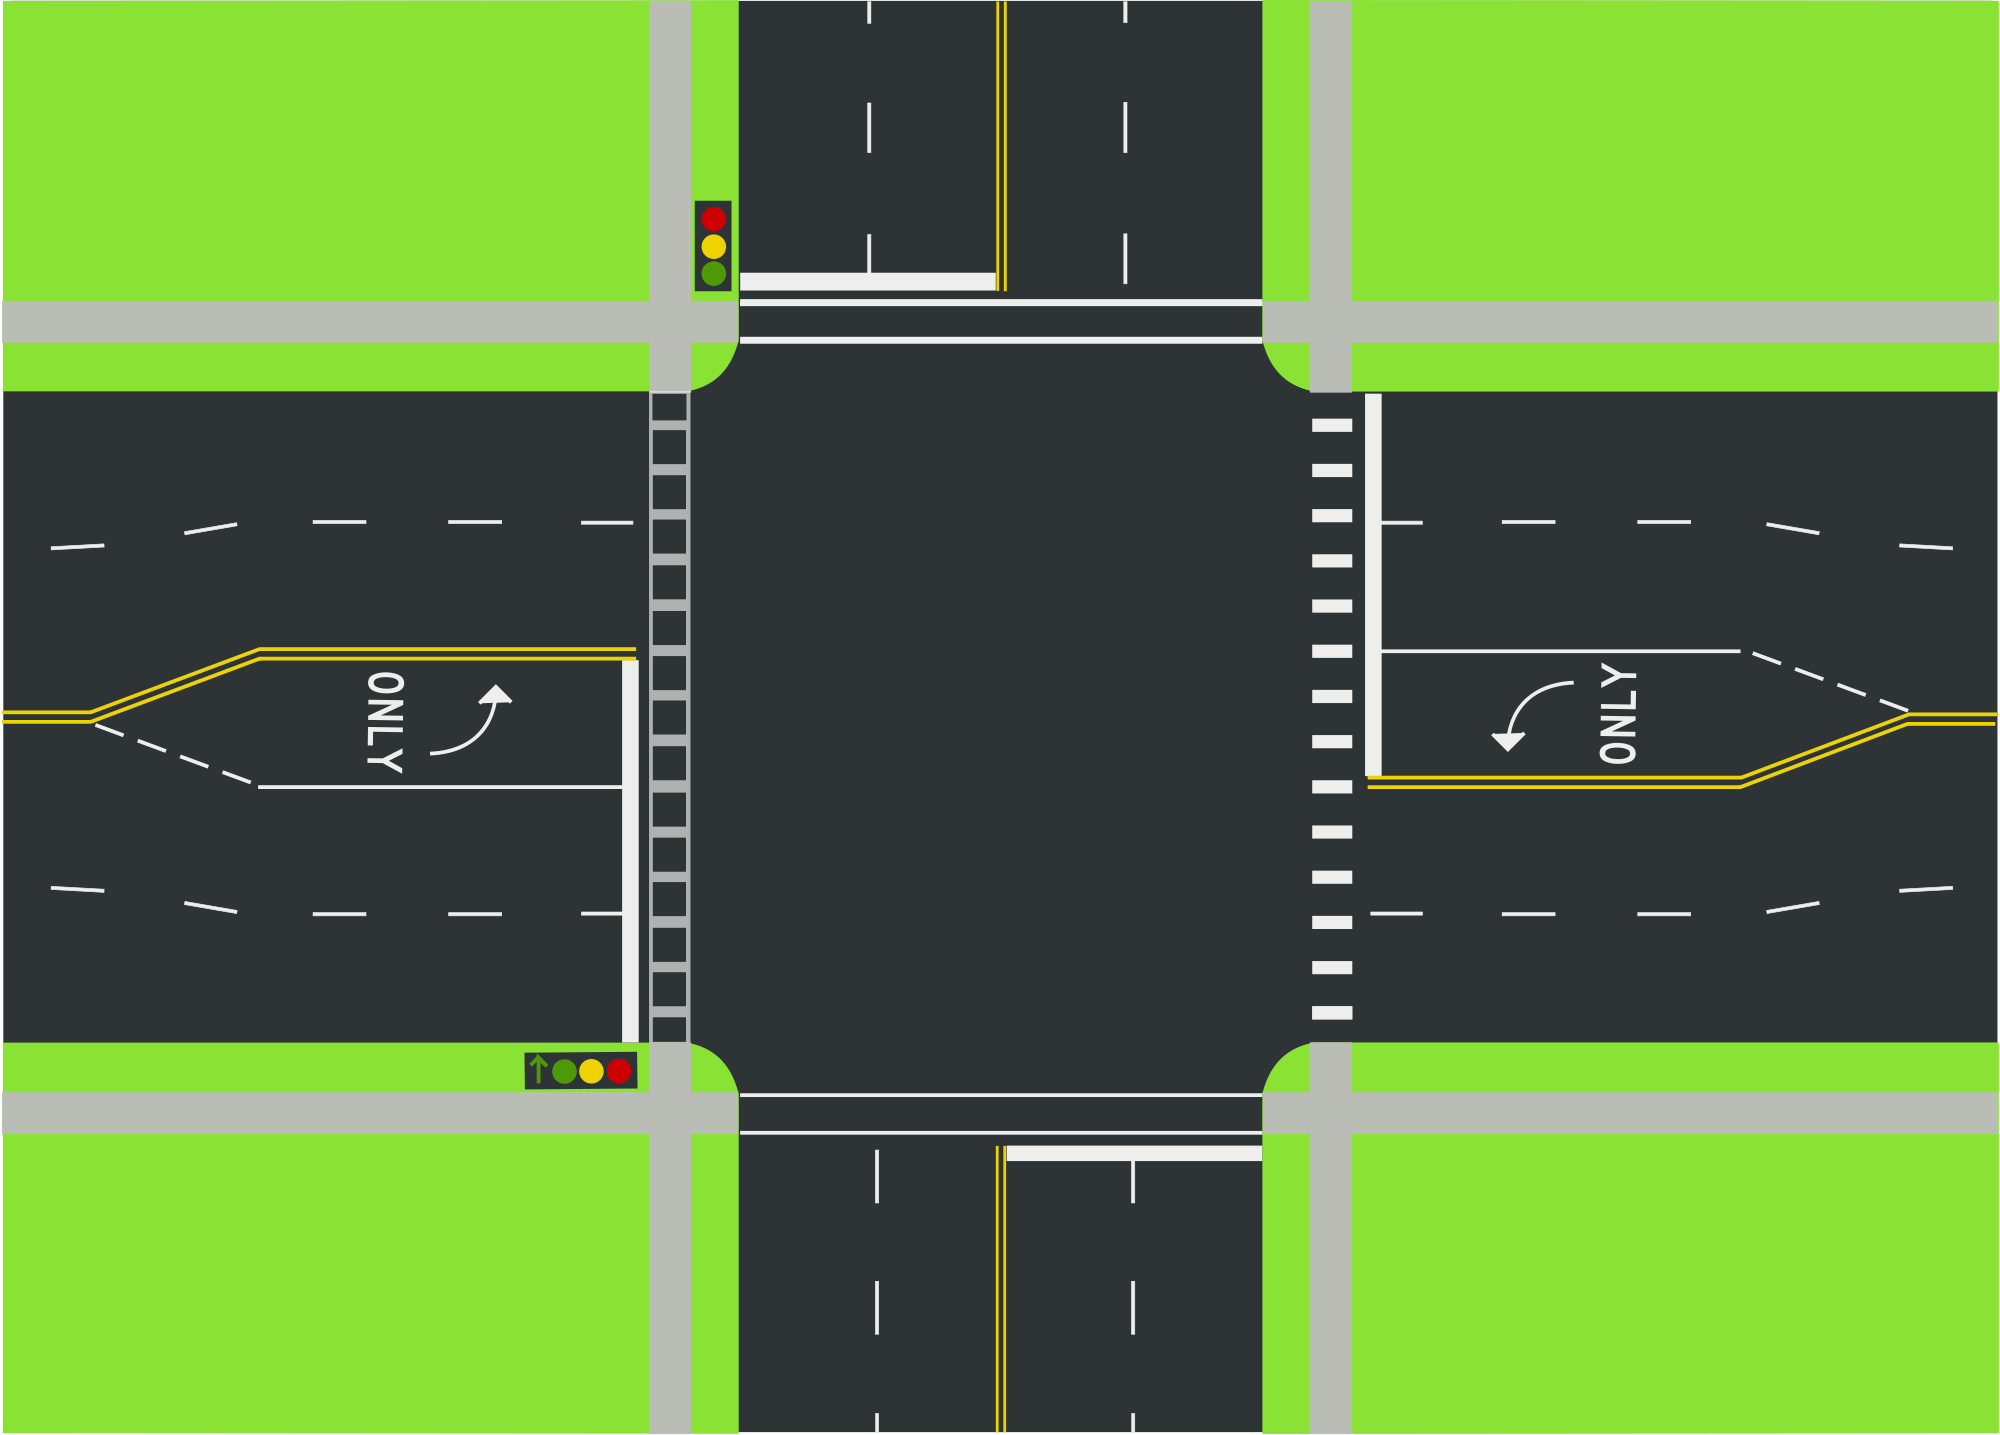
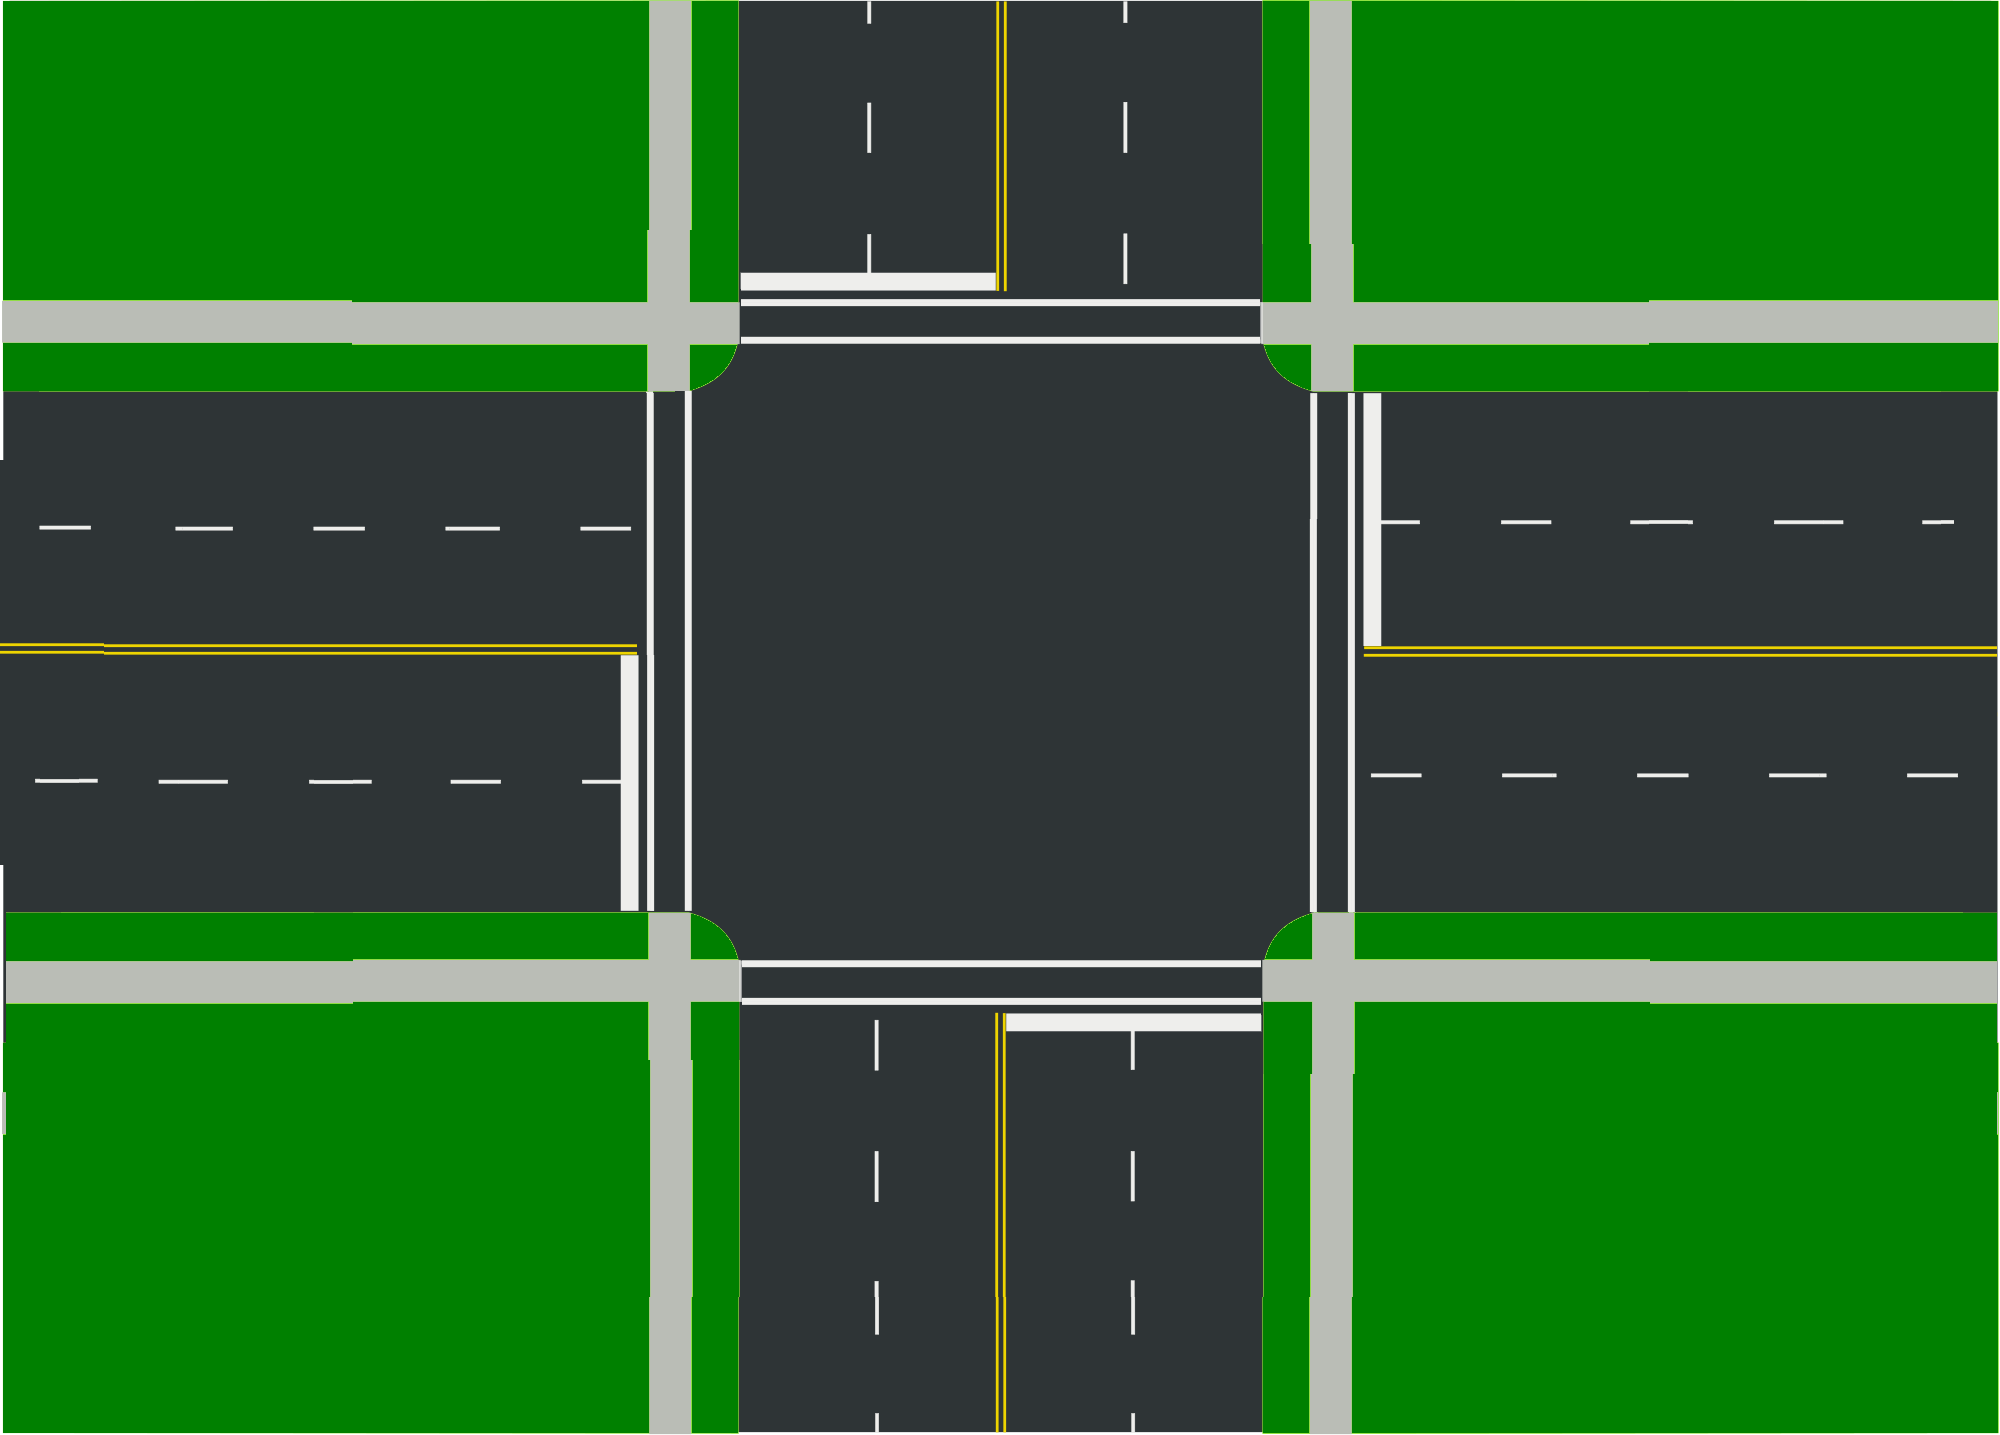
cambiato dimensioni auto e sfondo

diff --git a/veicolo.py b/veicolo.py
@@ -2,17 +2,17 @@ import random
 import pygame
 
 # Coordinate
-Centro = (512, 384)
-EndCoordinate = [[26, 220], [590, 16], [390, 730], [966, 500], [526, 16]]
-LaneCoordinate = [[26, 500], [966, 220], [390, 16], [590, 730]]
-LaneCentrali = [[460, 16], [966, 316], [526, 730], [26, 420]]
-EndCoordinate = [[26, 220], [590, 16], [390, 730], [966, 500], [526, 16]]
+Centro = (804, 464)
+EndCoordinate = [[26, 326], [850, 16], [646, 990], [1546, 602], [946, 16]]
+LaneCoordinate = [[26, 600], [1546, 326], [736, 16], [850, 990]]
+LaneCentrali = [[620, 16], [1546, 410], [946, 990], [26, 500]]
+
 
 # Carico Immagini
 car1img = pygame.image.load('imgGame\\auto.png')
 car2img = pygame.image.load('imgGame\\auto2.png')
-auto1 = pygame.transform.scale(car1img, (31, 15))
-auto2 = pygame.transform.scale(car2img, (31, 15))
+auto1 = pygame.transform.scale(car1img, (68, 33))
+auto2 = pygame.transform.scale(car2img, (68, 33))
 
 
 class Car():
@@ -22,11 +22,11 @@ class Car():
         self.x = self.initcoordinate[0]
         self.y = self.initcoordinate[1]
         self.image = random.choice([auto1, auto2])
-        if self.x == 966:
+        if self.x == 1546:
             self.image = pygame.transform.rotate(self.image, 180)
-        if self.x == 390 or self.x == 460:
+        if self.x == 736 or self.x == 620:
             self.image = pygame.transform.rotate(self.image, -90)
-        if self.x == 590 or self.x == 526:
+        if self.x == 850 or self.x == 946:
             self.image = pygame.transform.rotate(self.image, 90)
         self.rect = self.image.get_rect()
         self.angle = 0
@@ -48,19 +48,19 @@ class Car():
 
     def randomCoordinateEND(self):
         cordinate = [x for x in EndCoordinate if x[0] !=
-             self.initcoordinate[0] and x[1] != self.initcoordinate[1]]
+                     self.initcoordinate[0] and x[1] != self.initcoordinate[1]]
         self.endcoordinate = random.choice(cordinate)
         self.arrivox, self.arrivoy = self.endcoordinate[0], self.endcoordinate[1]
         # self.arrivoy = self.endcoordinate[1]
 
     def checklane(self):
         if self.startpos == 'destra' or self.startpos == 'sinistra':
-            if abs(self.initcoordinate[1]-Centro[1]) > 115:
+            if abs(self.initcoordinate[1]-Centro[1]) > 100:
                 self.lane = 'esterna'
             else:
                 self.lane = 'centro'
         if self.startpos == 'alto' or self.startpos == 'basso':
-            if abs(self.initcoordinate[0]-Centro[0]) > 70:
+            if abs(self.initcoordinate[0]-Centro[0]) > 100:
                 self.lane = 'esterna'
             else:
                 self.lane = 'centro'
@@ -79,10 +79,10 @@ class Car():
             # si sta muovendo
             if self.lane != 'esterna' and self.initcoordinate[1] != self.y:
                 if Centro[0] > self.initcoordinate[0]:  # alto a alto destra
-                    if abs(self.x - Centro[0]) < 122:
+                    if abs(self.x - Centro[0]) < 164:
                         self.x -= self.speedx
                 elif Centro[0] < self.initcoordinate[0]:  # basso a basso destra
-                    if abs(self.x - Centro[0]) < 78:
+                    if abs(self.x - Centro[0]) < 140:
                         self.x += self.speedx
 
     def changelanerevers(self):  # esterno interno
@@ -93,31 +93,29 @@ class Car():
                     if abs(self.y - Centro[1]) > 70:
                         self.y += self.speedy
                 elif Centro[1] < self.initcoordinate[1]:  # sinistra
-                    if abs(self.y - Centro[1]) > 48:
+                    if abs(self.y - Centro[1]) > 44:
                         self.y -= self.speedy
         if self.startpos == 'alto' or self.startpos == 'basso':
             # si sta muovendo
             if self.lane == 'esterna' and self.initcoordinate[1] != self.y:
                 if Centro[0] > self.initcoordinate[0]:  # alto
-                    if abs(self.x - Centro[0]) > 52:
+                    if abs(self.x - Centro[0]) > 70:
                         self.x += self.speedx
                 elif Centro[0] < self.initcoordinate[0]:  # basso
-                    if abs(self.x - Centro[0]) > 12:
+                    if abs(self.x - Centro[0]) > 26:
                         self.x -= self.speedx
-                        
+
     def provacollisione(self, listacar):
         collide = False
         for n in listacar:
             if self.visione.colliderect(n.ingombro):
-                self.speedy = 0 
+                self.speedy = 0
                 self.speedx = 0
-                collide = True 
-            if not collide:              
+                collide = True
+            if not collide:
                 self.speedy = 2
                 self.speedx = 2
-                collide = False   
-
-
+                collide = False
 
     def percorsoArrivo(self):
 
@@ -280,7 +278,7 @@ class Car():
                 self.ingombro.topright, self.image.get_size())
         if self.direzione == 'sinistra':
             self.visione = pygame.Rect((self.ingombro.topleft[0]-(self.image.get_size())[
-                                      1]*2, self.ingombro.topleft[1]), self.image.get_size())
+                1]*2, self.ingombro.topleft[1]), self.image.get_size())
         if self.direzione == 'su':
             self.visione = pygame.Rect((self.ingombro.topleft[0], self.ingombro.topleft[1]-(
                 self.image.get_size())[0]*2), self.image.get_size())

diff --git a/trafficSimulator.py b/trafficSimulator.py
@@ -19,10 +19,10 @@ def inizializza(Numerocars):
         listacar.append(a)
 def initSemafori():
     global listasemafori
-    n1 = Trafficlight(329,596)
-    n2 = Trafficlight(329,107)
-    n3 = Trafficlight(680,107)
-    n4 = Trafficlight(680,595)
+    n1 = Trafficlight(560,680)
+    n2 = Trafficlight(560,107)
+    n3 = Trafficlight(1100,107)
+    n4 = Trafficlight(1025,680)
     listasemafori = [n1,n2,n3,n4]
     
 
@@ -69,10 +69,11 @@ while True:
         # Per ricevere coordinate sulla poszione del mouse
         x, y = pygame.mouse.get_pos()
         print("X : {} Y: {}".format(x, y))
-        if event.type == TIMER1_EVENT:
-            inizializza(1)
+        #if event.type == TIMER1_EVENT:
+            #inizializza(1)
         # per inizializzare macchina con click
         if event.type == pygame.MOUSEBUTTONUP:
+            inizializza(1)
             signal_counter+=1
             if signal_counter>2:
                 signal_counter=0 

diff --git a/grafica.py b/grafica.py
@@ -4,9 +4,9 @@ import pygame
 pygame.init()
 # costanti per schermata
 sfondo = pygame.image.load('imgGame\incrocio2png.png')
-sfondo = pygame.transform.scale(sfondo, (1024, 768))
+sfondo = pygame.transform.scale(sfondo, (1600, 1024))
 myfont = pygame.font.SysFont('Comic Sans MS', 30)
-SCHERMO = pygame.display.set_mode((1024, 768))
+SCHERMO = pygame.display.set_mode((1600, 1024))
 FPS = 60
 textsurface = myfont.render('', False, (0, 0, 0))  # testo per coordinate
 textsurface2 = myfont.render('', False, (0, 0, 0))  # testo per coordinate
